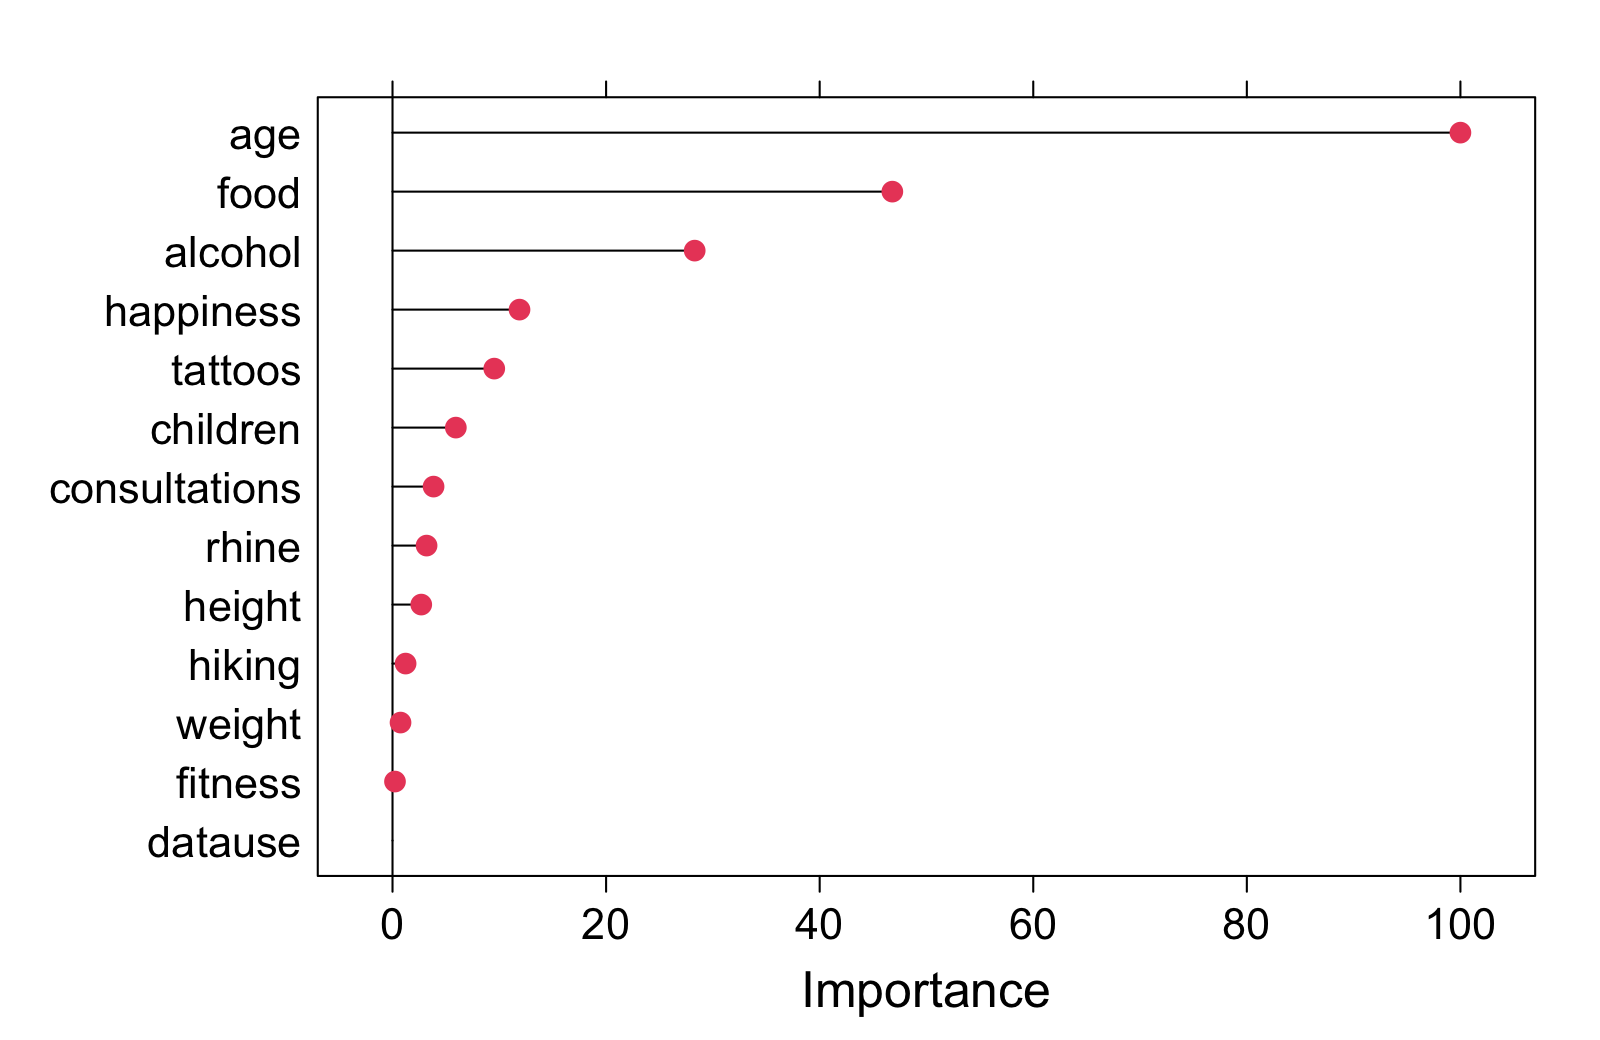
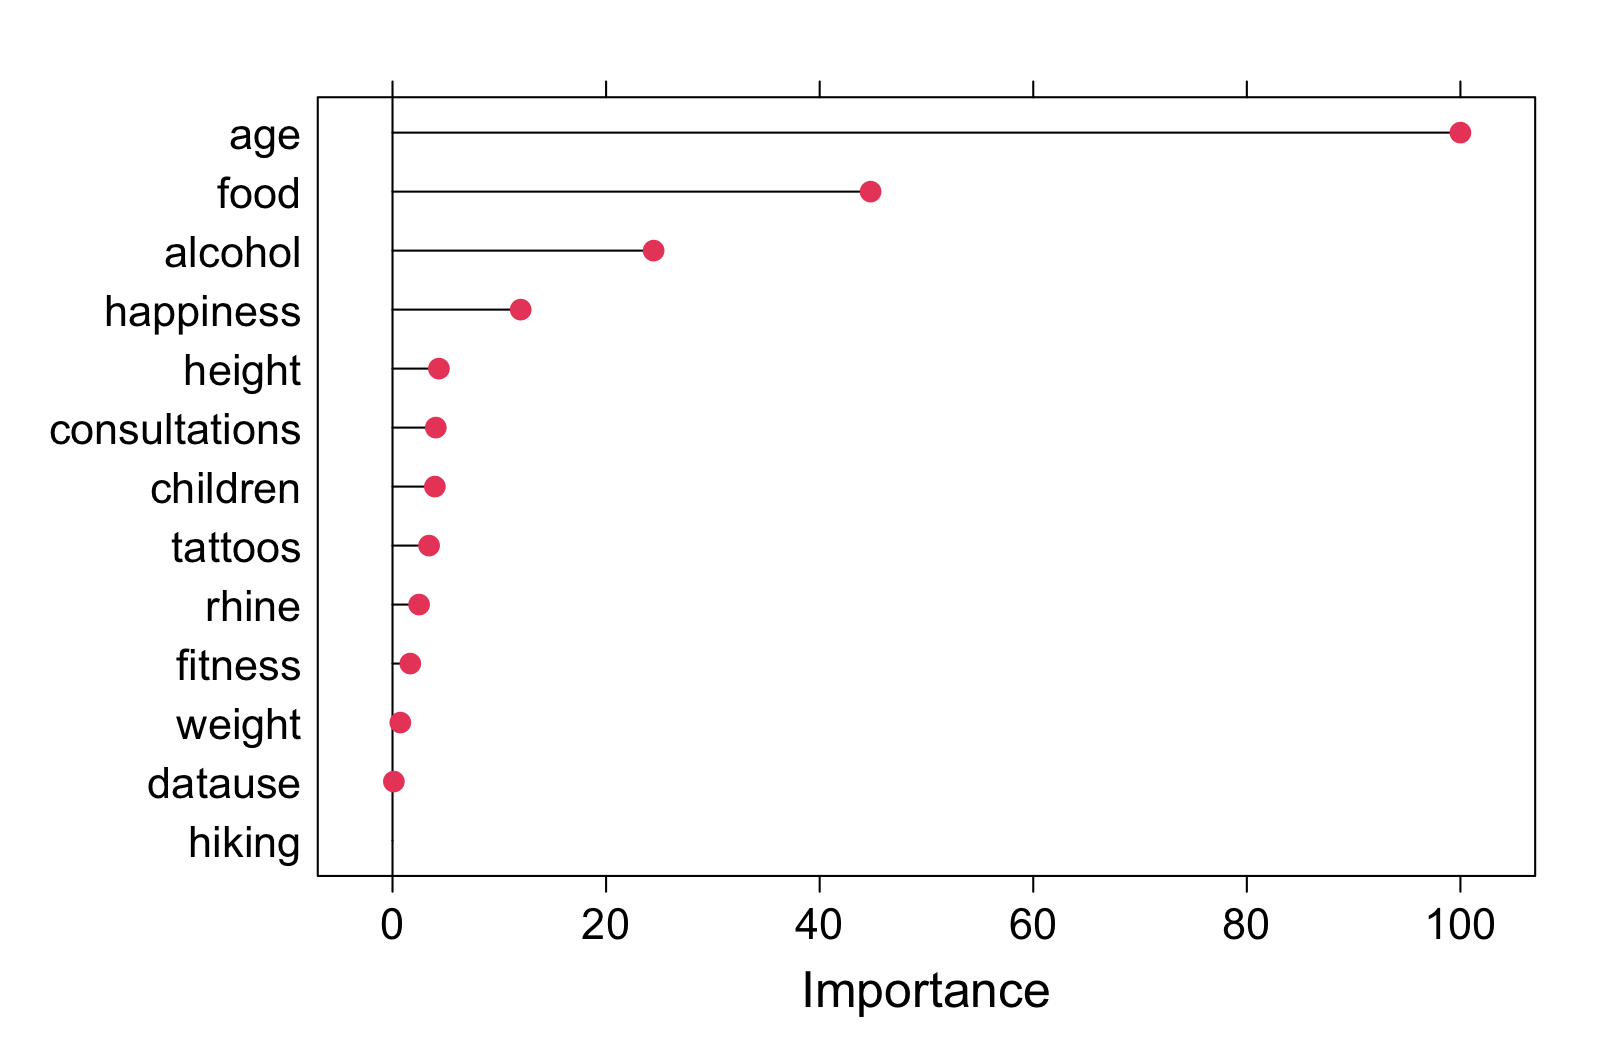
design update and fixes

diff --git a/_sessions/Features/Features.html b/_sessions/Features/Features.html
@@ -12,7 +12,7 @@
 class: center, middle, inverse, title-slide
 
 # Features
-### Applied Machine Learning with R<br> <a href='https://therbootcamp.github.io'> Basel R Bootcamp </a> <br> <a href='https://therbootcamp.github.io'> <i class='fas fa-clock' style='font-size:.9em;'></i> </a>  <a href='https://therbootcamp.github.io'> <i class='fas fa-home' style='font-size:.9em;' ></i> </a>  <a href='mailto:therbootcamp@gmail.com'> <i class='fas fa-envelope' style='font-size: .9em;'></i> </a>  <a href='https://www.linkedin.com/company/basel-r-bootcamp/'> <i class='fab fa-linkedin' style='font-size: .9em;'></i> </a>
+### Applied Machine Learning with R<br> <a href='https://therbootcamp.github.io'> Basel R Bootcamp </a> <br> <a href='https://therbootcamp.github.io/appliedML_2019Jan/'> <i class='fas fa-clock' style='font-size:.9em;'></i> </a>  <a href='https://therbootcamp.github.io'> <i class='fas fa-home' style='font-size:.9em;' ></i> </a>  <a href='mailto:therbootcamp@gmail.com'> <i class='fas fa-envelope' style='font-size: .9em;'></i> </a>  <a href='https://www.linkedin.com/company/basel-r-bootcamp/'> <i class='fab fa-linkedin' style='font-size: .9em;'></i> </a>
 ### January 2019
 
 ---
@@ -34,7 +34,7 @@ layout: true
     &lt;/a&gt;
     &lt;a href="https://therbootcamp.github.io/"&gt;
       &lt;font color="#7E7E7E"&gt;
-       Applied Machine Learning with R | January 2010
+       Applied Machine Learning with R | January 2019
       &lt;/font&gt;
     &lt;/a&gt;
     &lt;/span&gt;
@@ -181,15 +181,15 @@ lm variable importance
 
           Overall
 age       100.000
-food       46.729
-alcohol    27.929
-happiness  11.855
-tattoos     9.551
-children    5.978
-height      1.845
-fitness     0.274
-weight      0.214
-datause     0.000
+food       44.417
+alcohol    23.877
+happiness  11.692
+children    3.805
+height      3.609
+tattoos     3.371
+fitness     1.714
+datause     0.058
+weight      0.000
 ```
 
 ]
@@ -239,15 +239,15 @@ Outer resampling method: Bootstrapped (25 reps)
 
 Resampling performance over subset size:
 
- Variables  RMSE Rsquared   MAE RMSESD RsquaredSD  MAESD Selected
-         3 0.374    0.861 0.294 0.0144     0.0147 0.0119         
-         4 0.372    0.862 0.292 0.0135     0.0136 0.0115         
-         5 0.371    0.863 0.291 0.0148     0.0142 0.0124         
-        10 0.371    0.863 0.291 0.0147     0.0144 0.0120        *
-        14 0.371    0.863 0.290 0.0147     0.0145 0.0120         
+ Variables  RMSE Rsquared   MAE RMSESD RsquaredSD   MAESD Selected
+         3 0.381    0.857 0.300 0.0135     0.0109 0.01148         
+         4 0.377    0.860 0.296 0.0135     0.0114 0.01105        *
+         5 0.378    0.859 0.296 0.0128     0.0105 0.01053         
+        10 0.380    0.858 0.297 0.0123     0.0104 0.01009         
+        14 0.381    0.857 0.298 0.0123     0.0104 0.00988         
 
-The top 5 variables (out of 10):
-   age, food, alcohol, happiness, tattoos
+The top 4 variables (out of 4):
+   age, food, alcohol, happiness
 ```
 
 ]

diff --git a/_sessions/RforML/RforML.html b/_sessions/RforML/RforML.html
@@ -3,7 +3,7 @@
   <head>
     <title>R for ML</title>
     <meta charset="utf-8">
-    <meta name="author" content="Applied Machine Learning with R www.therbootcamp.com @therbootcamp" />
+    <meta name="author" content="Applied Machine Learning with R   Basel R Bootcamp" />
     <link href="libs/remark-css/default.css" rel="stylesheet" />
     <link rel="stylesheet" href="baselrbootcamp.css" type="text/css" />
   </head>
@@ -12,7 +12,7 @@
 class: center, middle, inverse, title-slide
 
 # R for ML
-### Applied Machine Learning with R<br/><a href='https://therbootcamp.github.io'>www.therbootcamp.com</a><br/><a href='https://twitter.com/therbootcamp'><span class="citation">@therbootcamp</span></a>
+### Applied Machine Learning with R<br> <a href='https://therbootcamp.github.io'> Basel R Bootcamp </a> <br> <a href='https://therbootcamp.github.io/appliedML_2019Jan/'> <i class='fas fa-clock' style='font-size:.9em;'></i> </a>  <a href='https://therbootcamp.github.io'> <i class='fas fa-home' style='font-size:.9em;' ></i> </a>  <a href='mailto:therbootcamp@gmail.com'> <i class='fas fa-envelope' style='font-size: .9em;'></i> </a>  <a href='https://www.linkedin.com/company/basel-r-bootcamp/'> <i class='fab fa-linkedin' style='font-size: .9em;'></i> </a>
 ### January 2019
 
 ---
@@ -20,11 +20,25 @@ class: center, middle, inverse, title-slide
 
 layout: true
 
-&lt;div class="my-footer"&gt;&lt;span&gt;
-&lt;a href="https://therbootcamp.github.io/"&gt;&lt;font color="#7E7E7E"&gt;Applied Machine Learning with R, January 2019&lt;/font&gt;&lt;/a&gt;
-&amp;emsp;&amp;emsp;&amp;emsp;&amp;emsp;&amp;emsp;&amp;emsp;&amp;emsp;&amp;emsp;&amp;emsp;&amp;emsp;&amp;emsp;&amp;emsp;&amp;emsp;&amp;emsp;&amp;emsp;&amp;emsp;&amp;emsp;&amp;emsp;&amp;emsp;&amp;emsp;
-&lt;a href="https://therbootcamp.github.io/"&gt;&lt;font color="#7E7E7E"&gt;www.therbootcamp.com&lt;/font&gt;&lt;/a&gt;
-&lt;/span&gt;&lt;/div&gt; 
+&lt;div class="my-footer"&gt;
+  &lt;span style="text-align:center"&gt;
+    &lt;span&gt; 
+      &lt;img src="https://raw.githubusercontent.com/therbootcamp/therbootcamp.github.io/master/_sessions/_image/by-sa.png" height=14 style="vertical-align: middle"/&gt;
+    &lt;/span&gt;
+    &lt;a href="https://therbootcamp.github.io/"&gt;
+      &lt;span style="padding-left:82px"&gt; 
+        &lt;font color="#7E7E7E"&gt;
+          www.therbootcamp.com
+        &lt;/font&gt;
+      &lt;/span&gt;
+    &lt;/a&gt;
+    &lt;a href="https://therbootcamp.github.io/"&gt;
+      &lt;font color="#7E7E7E"&gt;
+       Applied Machine Learning with R | January 2019
+      &lt;/font&gt;
+    &lt;/a&gt;
+    &lt;/span&gt;
+  &lt;/div&gt; 
 
 ---
 

diff --git a/_sessions/Welcome/Welcome.html b/_sessions/Welcome/Welcome.html
@@ -3,7 +3,7 @@
   <head>
     <title>Welcome!</title>
     <meta charset="utf-8">
-    <meta name="author" content="Applied Machine Learning with R www.therbootcamp.com @therbootcamp" />
+    <meta name="author" content="Applied Machine Learning with R   Basel R Bootcamp" />
     <link href="libs/remark-css/default.css" rel="stylesheet" />
     <link rel="stylesheet" href="baselrbootcamp.css" type="text/css" />
   </head>
@@ -12,11 +12,35 @@
 class: center, middle, inverse, title-slide
 
 # Welcome!
-### Applied Machine Learning with R<br/><a href='https://therbootcamp.github.io'>www.therbootcamp.com</a><br/><a href='https://twitter.com/therbootcamp'><span class="citation">@therbootcamp</span></a>
+### Applied Machine Learning with R<br> <a href='https://therbootcamp.github.io'> Basel R Bootcamp </a> <br> <a href='https://therbootcamp.github.io/appliedML_2019Jan/'> <i class='fas fa-clock' style='font-size:.9em;'></i> </a>  <a href='https://therbootcamp.github.io'> <i class='fas fa-home' style='font-size:.9em;' ></i> </a>  <a href='mailto:therbootcamp@gmail.com'> <i class='fas fa-envelope' style='font-size: .9em;'></i> </a>  <a href='https://www.linkedin.com/company/basel-r-bootcamp/'> <i class='fab fa-linkedin' style='font-size: .9em;'></i> </a>
 ### January 2019
 
 ---
 
+
+layout: true
+
+&lt;div class="my-footer"&gt;
+  &lt;span style="text-align:center"&gt;
+    &lt;span&gt; 
+      &lt;img src="https://raw.githubusercontent.com/therbootcamp/therbootcamp.github.io/master/_sessions/_image/by-sa.png" height=14 style="vertical-align: middle"/&gt;
+    &lt;/span&gt;
+    &lt;a href="https://therbootcamp.github.io/"&gt;
+      &lt;span style="padding-left:82px"&gt; 
+        &lt;font color="#7E7E7E"&gt;
+          www.therbootcamp.com
+        &lt;/font&gt;
+      &lt;/span&gt;
+    &lt;/a&gt;
+    &lt;a href="https://therbootcamp.github.io/"&gt;
+      &lt;font color="#7E7E7E"&gt;
+       Applied Machine Learning with R | January 2019
+      &lt;/font&gt;
+    &lt;/a&gt;
+    &lt;/span&gt;
+  &lt;/div&gt; 
+
+---
 
 layout: true
 

diff --git a/_sessions/Recap/Recap.html b/_sessions/Recap/Recap.html
@@ -3,7 +3,7 @@
   <head>
     <title>Recap</title>
     <meta charset="utf-8">
-    <meta name="author" content="Applied Machine Learning with R www.therbootcamp.com @therbootcamp" />
+    <meta name="author" content="Applied Machine Learning with R   Basel R Bootcamp" />
     <link href="libs/remark-css/default.css" rel="stylesheet" />
     <link rel="stylesheet" href="baselrbootcamp.css" type="text/css" />
   </head>
@@ -12,11 +12,35 @@
 class: center, middle, inverse, title-slide
 
 # Recap
-### Applied Machine Learning with R<br/><a href='https://therbootcamp.github.io'>www.therbootcamp.com</a><br/><a href='https://twitter.com/therbootcamp'><span class="citation">@therbootcamp</span></a>
+### Applied Machine Learning with R<br> <a href='https://therbootcamp.github.io'> Basel R Bootcamp </a> <br> <a href='https://therbootcamp.github.io/appliedML_2019Jan/'> <i class='fas fa-clock' style='font-size:.9em;'></i> </a>  <a href='https://therbootcamp.github.io'> <i class='fas fa-home' style='font-size:.9em;' ></i> </a>  <a href='mailto:therbootcamp@gmail.com'> <i class='fas fa-envelope' style='font-size: .9em;'></i> </a>  <a href='https://www.linkedin.com/company/basel-r-bootcamp/'> <i class='fab fa-linkedin' style='font-size: .9em;'></i> </a>
 ### January 2019
 
 ---
 
+
+layout: true
+
+&lt;div class="my-footer"&gt;
+  &lt;span style="text-align:center"&gt;
+    &lt;span&gt; 
+      &lt;img src="https://raw.githubusercontent.com/therbootcamp/therbootcamp.github.io/master/_sessions/_image/by-sa.png" height=14 style="vertical-align: middle"/&gt;
+    &lt;/span&gt;
+    &lt;a href="https://therbootcamp.github.io/"&gt;
+      &lt;span style="padding-left:82px"&gt; 
+        &lt;font color="#7E7E7E"&gt;
+          www.therbootcamp.com
+        &lt;/font&gt;
+      &lt;/span&gt;
+    &lt;/a&gt;
+    &lt;a href="https://therbootcamp.github.io/"&gt;
+      &lt;font color="#7E7E7E"&gt;
+       Applied Machine Learning with R | January 2019
+      &lt;/font&gt;
+    &lt;/a&gt;
+    &lt;/span&gt;
+  &lt;/div&gt; 
+
+---
 
 layout: true
 

diff --git a/_sessions/WhatIsML/WhatIsML.html b/_sessions/WhatIsML/WhatIsML.html
@@ -1,7 +1,7 @@
 <!DOCTYPE html>
 <html>
   <head>
-    <title>Models</title>
+    <title>What is ML?</title>
     <meta charset="utf-8">
     <meta name="author" content="Applied Machine Learning with R   Basel R Bootcamp" />
     <link href="libs/remark-css/default.css" rel="stylesheet" />
@@ -11,8 +11,8 @@
     <textarea id="source">
 class: center, middle, inverse, title-slide
 
-# Models
-### Applied Machine Learning with R<br> <a href='https://therbootcamp.github.io'> Basel R Bootcamp </a> <br> <a href='https://therbootcamp.github.io'> <i class='fas fa-clock' style='font-size:.9em;'></i> </a>  <a href='https://therbootcamp.github.io'> <i class='fas fa-home' style='font-size:.9em;' ></i> </a>  <a href='mailto:therbootcamp@gmail.com'> <i class='fas fa-envelope' style='font-size: .9em;'></i> </a>  <a href='https://www.linkedin.com/company/basel-r-bootcamp/'> <i class='fab fa-linkedin' style='font-size: .9em;'></i> </a>
+# What is ML?
+### Applied Machine Learning with R<br> <a href='https://therbootcamp.github.io'> Basel R Bootcamp </a> <br> <a href='https://therbootcamp.github.io/appliedML_2019Jan/'> <i class='fas fa-clock' style='font-size:.9em;'></i> </a>  <a href='https://therbootcamp.github.io'> <i class='fas fa-home' style='font-size:.9em;' ></i> </a>  <a href='mailto:therbootcamp@gmail.com'> <i class='fas fa-envelope' style='font-size: .9em;'></i> </a>  <a href='https://www.linkedin.com/company/basel-r-bootcamp/'> <i class='fab fa-linkedin' style='font-size: .9em;'></i> </a>
 ### January 2019
 
 ---
@@ -34,7 +34,7 @@ layout: true
     &lt;/a&gt;
     &lt;a href="https://therbootcamp.github.io/"&gt;
       &lt;font color="#7E7E7E"&gt;
-       Applied Machine Learning with R | January 2010
+       Applied Machine Learning with R | January 2019
       &lt;/font&gt;
     &lt;/a&gt;
     &lt;/span&gt;

diff --git a/_sessions/Optimization/Optimization.html b/_sessions/Optimization/Optimization.html
@@ -12,7 +12,7 @@
 class: center, middle, inverse, title-slide
 
 # Optimization
-### Applied Machine Learning with R<br> <a href='https://therbootcamp.github.io'> Basel R Bootcamp </a> <br> <a href='https://therbootcamp.github.io'> <i class='fas fa-clock' style='font-size:.9em;'></i> </a>  <a href='https://therbootcamp.github.io'> <i class='fas fa-home' style='font-size:.9em;' ></i> </a>  <a href='mailto:therbootcamp@gmail.com'> <i class='fas fa-envelope' style='font-size: .9em;'></i> </a>  <a href='https://www.linkedin.com/company/basel-r-bootcamp/'> <i class='fab fa-linkedin' style='font-size: .9em;'></i> </a>
+### Applied Machine Learning with R<br> <a href='https://therbootcamp.github.io'> Basel R Bootcamp </a> <br> <a href='https://therbootcamp.github.io/appliedML_2019Jan/'> <i class='fas fa-clock' style='font-size:.9em;'></i> </a>  <a href='https://therbootcamp.github.io'> <i class='fas fa-home' style='font-size:.9em;' ></i> </a>  <a href='mailto:therbootcamp@gmail.com'> <i class='fas fa-envelope' style='font-size: .9em;'></i> </a>  <a href='https://www.linkedin.com/company/basel-r-bootcamp/'> <i class='fab fa-linkedin' style='font-size: .9em;'></i> </a>
 ### January 2019
 
 ---
@@ -34,7 +34,7 @@ layout: true
     &lt;/a&gt;
     &lt;a href="https://therbootcamp.github.io/"&gt;
       &lt;font color="#7E7E7E"&gt;
-       Applied Machine Learning with R | January 2010
+       Applied Machine Learning with R | January 2019
       &lt;/font&gt;
     &lt;/a&gt;
     &lt;/span&gt;

diff --git a/_sessions/LookAhead/LookAhead.html b/_sessions/LookAhead/LookAhead.html
@@ -12,7 +12,7 @@
 class: center, middle, inverse, title-slide
 
 # Look Ahead
-### Applied Machine Learning with R<br> <a href='https://therbootcamp.github.io'> Basel R Bootcamp </a> <br> <a href='https://therbootcamp.github.io'> <i class='fas fa-clock' style='font-size:.9em;'></i> </a>  <a href='https://therbootcamp.github.io'> <i class='fas fa-home' style='font-size:.9em;' ></i> </a>  <a href='mailto:therbootcamp@gmail.com'> <i class='fas fa-envelope' style='font-size: .9em;'></i> </a>  <a href='https://www.linkedin.com/company/basel-r-bootcamp/'> <i class='fab fa-linkedin' style='font-size: .9em;'></i> </a>
+### Applied Machine Learning with R<br> <a href='https://therbootcamp.github.io'> Basel R Bootcamp </a> <br> <a href='https://therbootcamp.github.io/appliedML_2019Jan/'> <i class='fas fa-clock' style='font-size:.9em;'></i> </a>  <a href='https://therbootcamp.github.io'> <i class='fas fa-home' style='font-size:.9em;' ></i> </a>  <a href='mailto:therbootcamp@gmail.com'> <i class='fas fa-envelope' style='font-size: .9em;'></i> </a>  <a href='https://www.linkedin.com/company/basel-r-bootcamp/'> <i class='fab fa-linkedin' style='font-size: .9em;'></i> </a>
 ### January 2019
 
 ---
@@ -34,7 +34,7 @@ layout: true
     &lt;/a&gt;
     &lt;a href="https://therbootcamp.github.io/"&gt;
       &lt;font color="#7E7E7E"&gt;
-       Applied Machine Learning with R | January 2010
+       Applied Machine Learning with R | January 2019
       &lt;/font&gt;
     &lt;/a&gt;
     &lt;/span&gt;

diff --git a/_sessions/Prediction/Prediction.html b/_sessions/Prediction/Prediction.html
@@ -12,7 +12,7 @@
 class: center, middle, inverse, title-slide
 
 # Prediction
-### Applied Machine Learning with R<br> <a href='https://therbootcamp.github.io'> Basel R Bootcamp </a> <br> <a href='https://therbootcamp.github.io'> <i class='fas fa-clock' style='font-size:.9em;'></i> </a>  <a href='https://therbootcamp.github.io'> <i class='fas fa-home' style='font-size:.9em;' ></i> </a>  <a href='mailto:therbootcamp@gmail.com'> <i class='fas fa-envelope' style='font-size: .9em;'></i> </a>  <a href='https://www.linkedin.com/company/basel-r-bootcamp/'> <i class='fab fa-linkedin' style='font-size: .9em;'></i> </a>
+### Applied Machine Learning with R<br> <a href='https://therbootcamp.github.io'> Basel R Bootcamp </a> <br> <a href='https://therbootcamp.github.io/appliedML_2019Jan/'> <i class='fas fa-clock' style='font-size:.9em;'></i> </a>  <a href='https://therbootcamp.github.io'> <i class='fas fa-home' style='font-size:.9em;' ></i> </a>  <a href='mailto:therbootcamp@gmail.com'> <i class='fas fa-envelope' style='font-size: .9em;'></i> </a>  <a href='https://www.linkedin.com/company/basel-r-bootcamp/'> <i class='fab fa-linkedin' style='font-size: .9em;'></i> </a>
 ### January 2019
 
 ---
@@ -34,7 +34,7 @@ layout: true
     &lt;/a&gt;
     &lt;a href="https://therbootcamp.github.io/"&gt;
       &lt;font color="#7E7E7E"&gt;
-       Applied Machine Learning with R | January 2010
+       Applied Machine Learning with R | January 2019
       &lt;/font&gt;
     &lt;/a&gt;
     &lt;/span&gt;

diff --git a/_sessions/Fitting/Fitting.html b/_sessions/Fitting/Fitting.html
@@ -12,7 +12,7 @@
 class: center, middle, inverse, title-slide
 
 # Fitting
-### Applied Machine Learning with R<br> <a href='https://therbootcamp.github.io'> Basel R Bootcamp </a> <br> <a href='https://therbootcamp.github.io'> <i class='fas fa-clock' style='font-size:.9em;'></i> </a>  <a href='https://therbootcamp.github.io'> <i class='fas fa-home' style='font-size:.9em;' ></i> </a>  <a href='mailto:therbootcamp@gmail.com'> <i class='fas fa-envelope' style='font-size: .9em;'></i> </a>  <a href='https://www.linkedin.com/company/basel-r-bootcamp/'> <i class='fab fa-linkedin' style='font-size: .9em;'></i> </a>
+### Applied Machine Learning with R<br> <a href='https://therbootcamp.github.io'> Basel R Bootcamp </a> <br> <a href='https://therbootcamp.github.io/appliedML_2019Jan/'> <i class='fas fa-clock' style='font-size:.9em;'></i> </a>  <a href='https://therbootcamp.github.io'> <i class='fas fa-home' style='font-size:.9em;' ></i> </a>  <a href='mailto:therbootcamp@gmail.com'> <i class='fas fa-envelope' style='font-size: .9em;'></i> </a>  <a href='https://www.linkedin.com/company/basel-r-bootcamp/'> <i class='fab fa-linkedin' style='font-size: .9em;'></i> </a>
 ### January 2019
 
 ---
@@ -34,7 +34,7 @@ layout: true
     &lt;/a&gt;
     &lt;a href="https://therbootcamp.github.io/"&gt;
       &lt;font color="#7E7E7E"&gt;
-       Applied Machine Learning with R | January 2010
+       Applied Machine Learning with R | January 2019
       &lt;/font&gt;
     &lt;/a&gt;
     &lt;/span&gt;

diff --git a/_sessions/Models/Models.html b/_sessions/Models/Models.html
@@ -12,7 +12,7 @@
 class: center, middle, inverse, title-slide
 
 # Models
-### Applied Machine Learning with R<br> <a href='https://therbootcamp.github.io'> Basel R Bootcamp </a> <br> <a href='https://therbootcamp.github.io'> <i class='fas fa-clock' style='font-size:.9em;'></i> </a>  <a href='https://therbootcamp.github.io'> <i class='fas fa-home' style='font-size:.9em;' ></i> </a>  <a href='mailto:therbootcamp@gmail.com'> <i class='fas fa-envelope' style='font-size: .9em;'></i> </a>  <a href='https://www.linkedin.com/company/basel-r-bootcamp/'> <i class='fab fa-linkedin' style='font-size: .9em;'></i> </a>
+### Applied Machine Learning with R<br> <a href='https://therbootcamp.github.io'> Basel R Bootcamp </a> <br> <a href='https://therbootcamp.github.io/appliedML_2019Jan/'> <i class='fas fa-clock' style='font-size:.9em;'></i> </a>  <a href='https://therbootcamp.github.io'> <i class='fas fa-home' style='font-size:.9em;' ></i> </a>  <a href='mailto:therbootcamp@gmail.com'> <i class='fas fa-envelope' style='font-size: .9em;'></i> </a>  <a href='https://www.linkedin.com/company/basel-r-bootcamp/'> <i class='fab fa-linkedin' style='font-size: .9em;'></i> </a>
 ### January 2019
 
 ---
@@ -34,7 +34,7 @@ layout: true
     &lt;/a&gt;
     &lt;a href="https://therbootcamp.github.io/"&gt;
       &lt;font color="#7E7E7E"&gt;
-       Applied Machine Learning with R | January 2010
+       Applied Machine Learning with R | January 2019
       &lt;/font&gt;
     &lt;/a&gt;
     &lt;/span&gt;

diff --git a/_sessions/Welcome/baselrbootcamp.css b/_sessions/Welcome/baselrbootcamp.css
@@ -3,6 +3,9 @@
 @import url(https://fonts.googleapis.com/css?family=Yanone+Kaffeesatz);
 @import url(https://fonts.googleapis.com/css?family=Droid+Serif:400,700,400italic);
 @import url(https://fonts.googleapis.com/css?family=Source+Code+Pro:400,700);
+@import url(https://use.fontawesome.com/releases/v5.6.3/css/all.css);
+@import url(https://cdnjs.cloudflare.com/ajax/libs/font-awesome/4.7.0/css/font-awesome.min.css);
+@import url(https://fonts.googleapis.com/icon?family=Material+Icons);
 
 
 /* Title */
@@ -35,7 +38,7 @@
 
 a {
 color: #6ABA9A;
-font-weight: 700; 
+font-weight: 700;
 }
 
 /* Footer */
@@ -56,7 +59,7 @@ div.my-footer span {
     position: absolute;
     text-align: left;
     bottom: 0px;
-    left: 20px;
+    left: 0px;
 	}
 
 /* Center */
@@ -322,9 +325,15 @@ br2 {
 
 high {
   color: #EA4B68;
-  font-weight: 700; 
+  font-weight: 700;
 }
 
-font.hfont {
-	font-family: 'Yanone Kaffeesatz'
+mono {
+	font-family: monospace;
+}
+
+highm {
+	color: #EA4B68;
+  font-weight: 700;
+	font-family: monospace;
 }

diff --git a/_sessions/Recap/baselrbootcamp.css b/_sessions/Recap/baselrbootcamp.css
@@ -3,6 +3,9 @@
 @import url(https://fonts.googleapis.com/css?family=Yanone+Kaffeesatz);
 @import url(https://fonts.googleapis.com/css?family=Droid+Serif:400,700,400italic);
 @import url(https://fonts.googleapis.com/css?family=Source+Code+Pro:400,700);
+@import url(https://use.fontawesome.com/releases/v5.6.3/css/all.css);
+@import url(https://cdnjs.cloudflare.com/ajax/libs/font-awesome/4.7.0/css/font-awesome.min.css);
+@import url(https://fonts.googleapis.com/icon?family=Material+Icons);
 
 
 /* Title */
@@ -56,7 +59,7 @@ div.my-footer span {
     position: absolute;
     text-align: left;
     bottom: 0px;
-    left: 20px;
+    left: 0px;
 	}
 
 /* Center */
